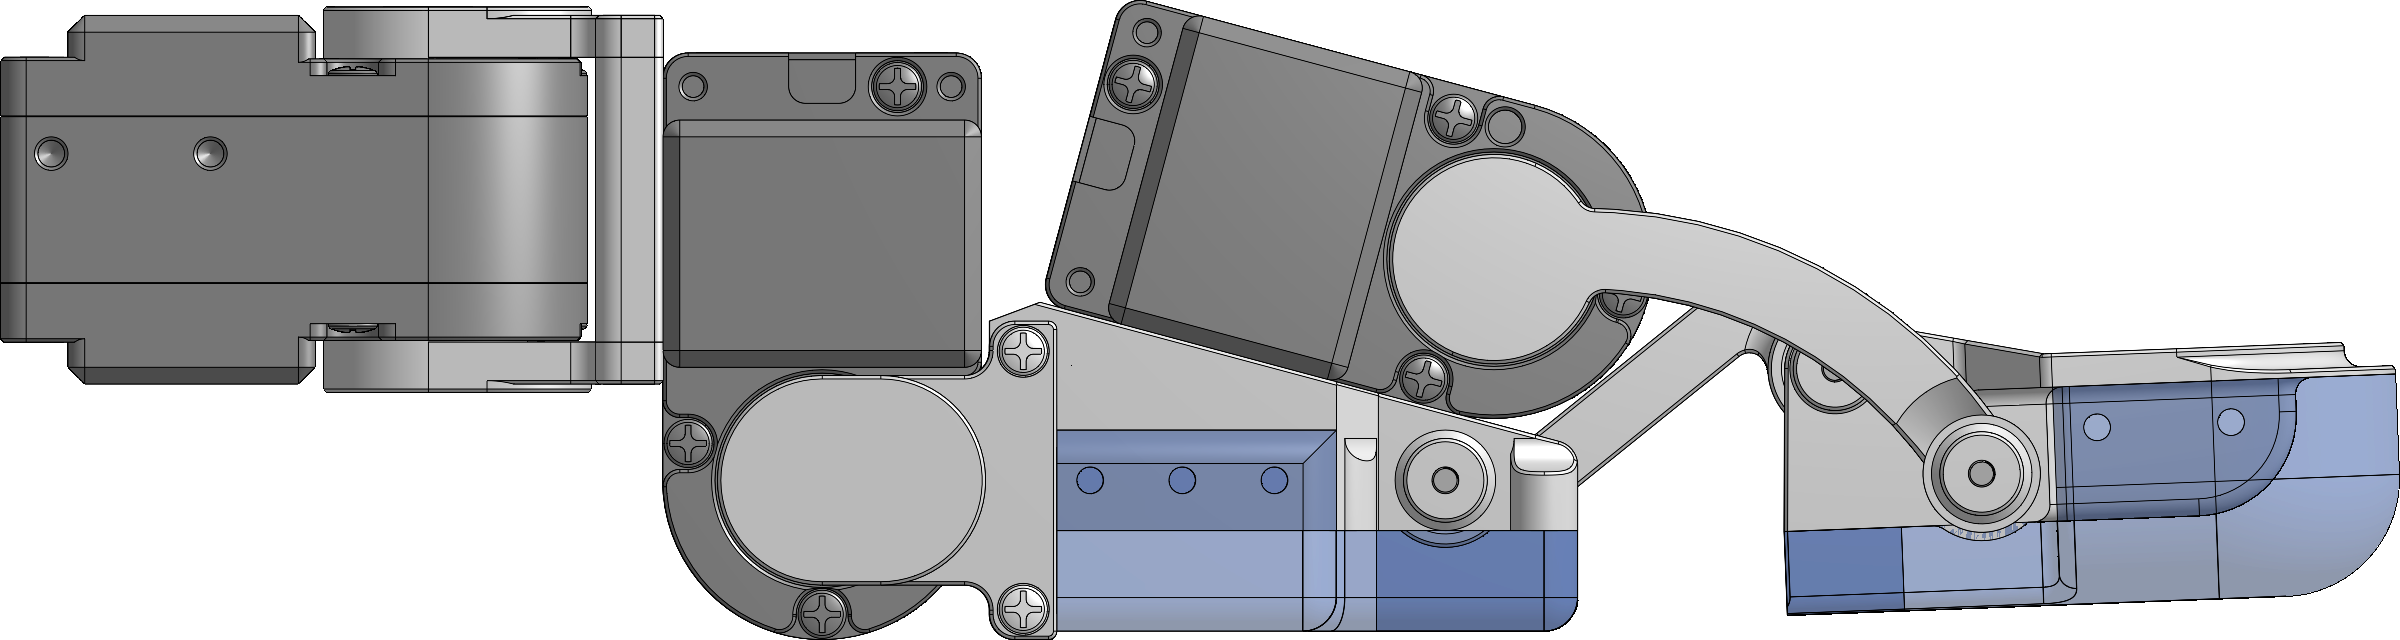
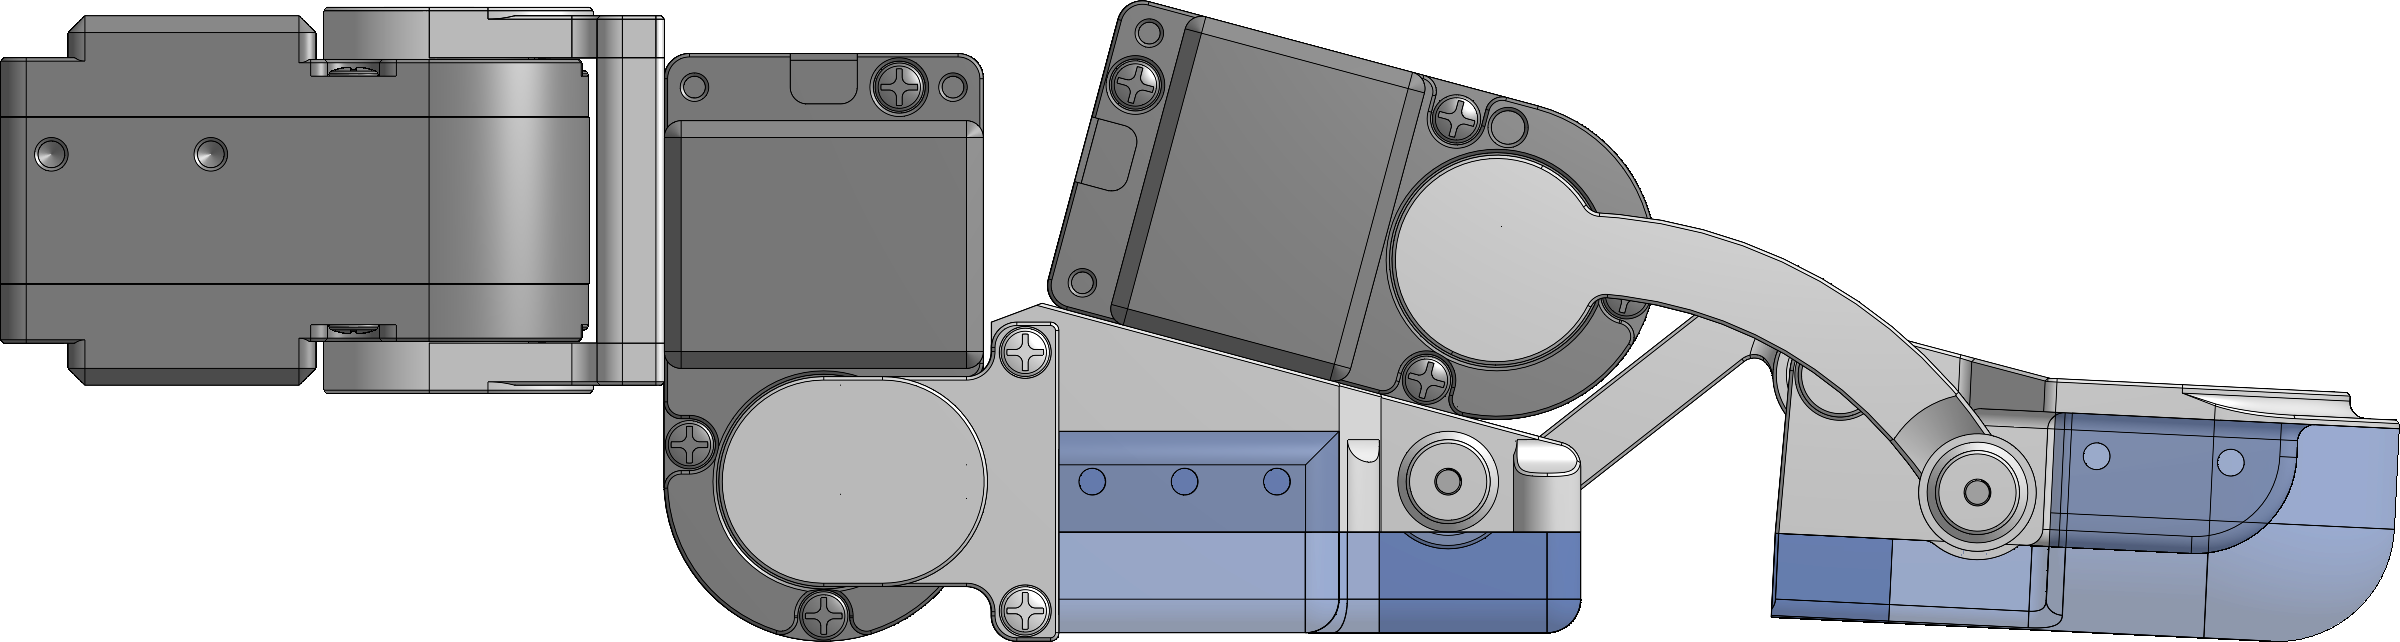
Fig. 1(b): CAD re-rendered after Revolute 4 set -0.04 rad in Onshape (pads parallel); ellipses follow the pads

diff --git a/paper/figures/fig_cad.py b/paper/figures/fig_cad.py
@@ -347,8 +347,15 @@ def main() -> int:
     fh = fw * fin.shape[0] / fin.shape[1]
     plabel(1.40, top, "b", "crossed four-bar joint")
     f = fig.add_axes((*inch(1.44, top - 0.30 - fh), fw / W_, fh / H_)); f.imshow(fin); f.axis("off")
-    for cx, cy, ew, eh in ((1250 - CROP, 530, 450, 190), (2215 - CROP, 485, 340, 220)):
-        f.add_patch(Ellipse((cx, cy), ew, eh, fc="none", ec="k", lw=0.7, ls="--", clip_on=False, zorder=5))
+    blue_ = (fin[..., 2].astype(int) - fin[..., 0] > 35) & (fin[..., 2] > 120)  # the pads in the CAD view
+    bx_ = np.nonzero(blue_.any(axis=0))[0]
+    cut = bx_[np.argmax(np.diff(bx_))] + 1
+    for lo_, hi_ in ((bx_.min(), cut), (cut, bx_.max() + 1)):
+        ys_, xs_ = np.nonzero(blue_[:, lo_:hi_])
+        xs_ = xs_ + lo_
+        f.add_patch(Ellipse(((xs_.min() + xs_.max()) / 2, (ys_.min() + ys_.max()) / 2), (xs_.max() - xs_.min()) * 1.05,
+                            (ys_.max() - ys_.min()) * 1.25, fc="none", ec="k", lw=0.7, ls="--", clip_on=False,
+                            zorder=5))
     fig.text(*inch(1.44 + fw / 2, top - 0.34 - fh), "dashed: pad seats", fontsize=6.0, ha="center", va="top")
     y = top - 0.20 - max(hh, fh + 0.25)
     plabel(0.02, y, "c", "contact interfaces")
